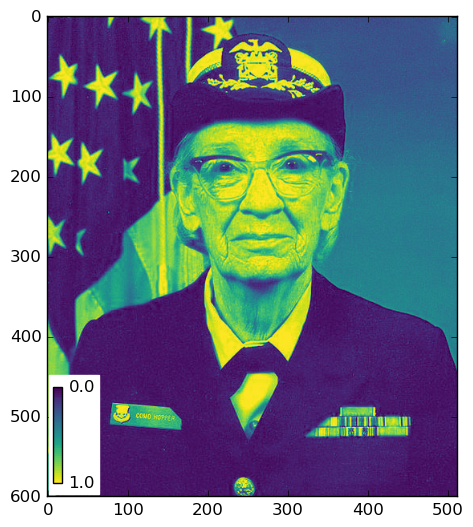
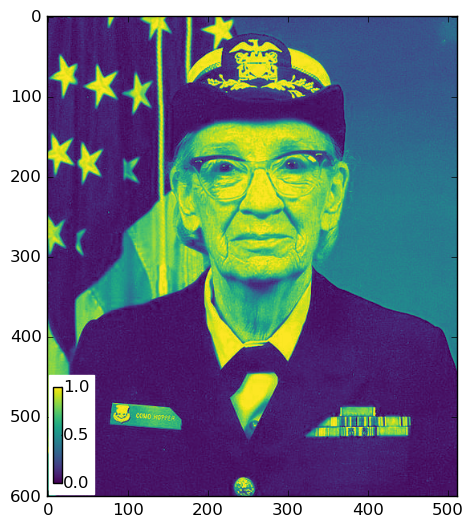
Update README with new parameter and example figure.

Changed region(s): [[0.0888, 0.6983, 0.2368, 0.9412]]

diff --git a/README.rst b/README.rst
@@ -44,6 +44,7 @@ Here is an example how to add a scale bar::
    >>> data = np.array(plt.imread(cbook.get_sample_data('grace_hopper.png')))
    >>> mappable = plt.imshow(data[...,0], cmap='viridis')
    >>> colorbar = ColorBar(mappable, location='lower left')
+   >>> colorbar.set_ticks([0.0, 0.5, 1.0])
    >>> plt.gca().add_artist(colorbar)
    >>> plt.show()
 
@@ -60,7 +61,6 @@ Here are parameters that can either be customized in the constructor of the
     (default: ``None``, no label is shown)
   * ``orientation``: orientation, ``vertical`` or ``horizontal``
     (default: ``vertical``)
-  * ``nbins``: number of color division in the color bar (default: or 50)
   * ``length_fraction``: length of the color bar as a fraction of the
     axes's width (horizontal) or height (vertical) depending on the
     orientation (default: ``0.2``)
@@ -79,6 +79,7 @@ Here are parameters that can either be customized in the constructor of the
     optional sets the font properties for the label text
   * ``ticks``: ticks location (default: minimal and maximal values)
   * ``ticklabels``: a list of tick labels (same length as ``ticks`` argument)
+  * ``ticklocation``: location of the ticks (default: ``auto``)
 
 License
 -------
